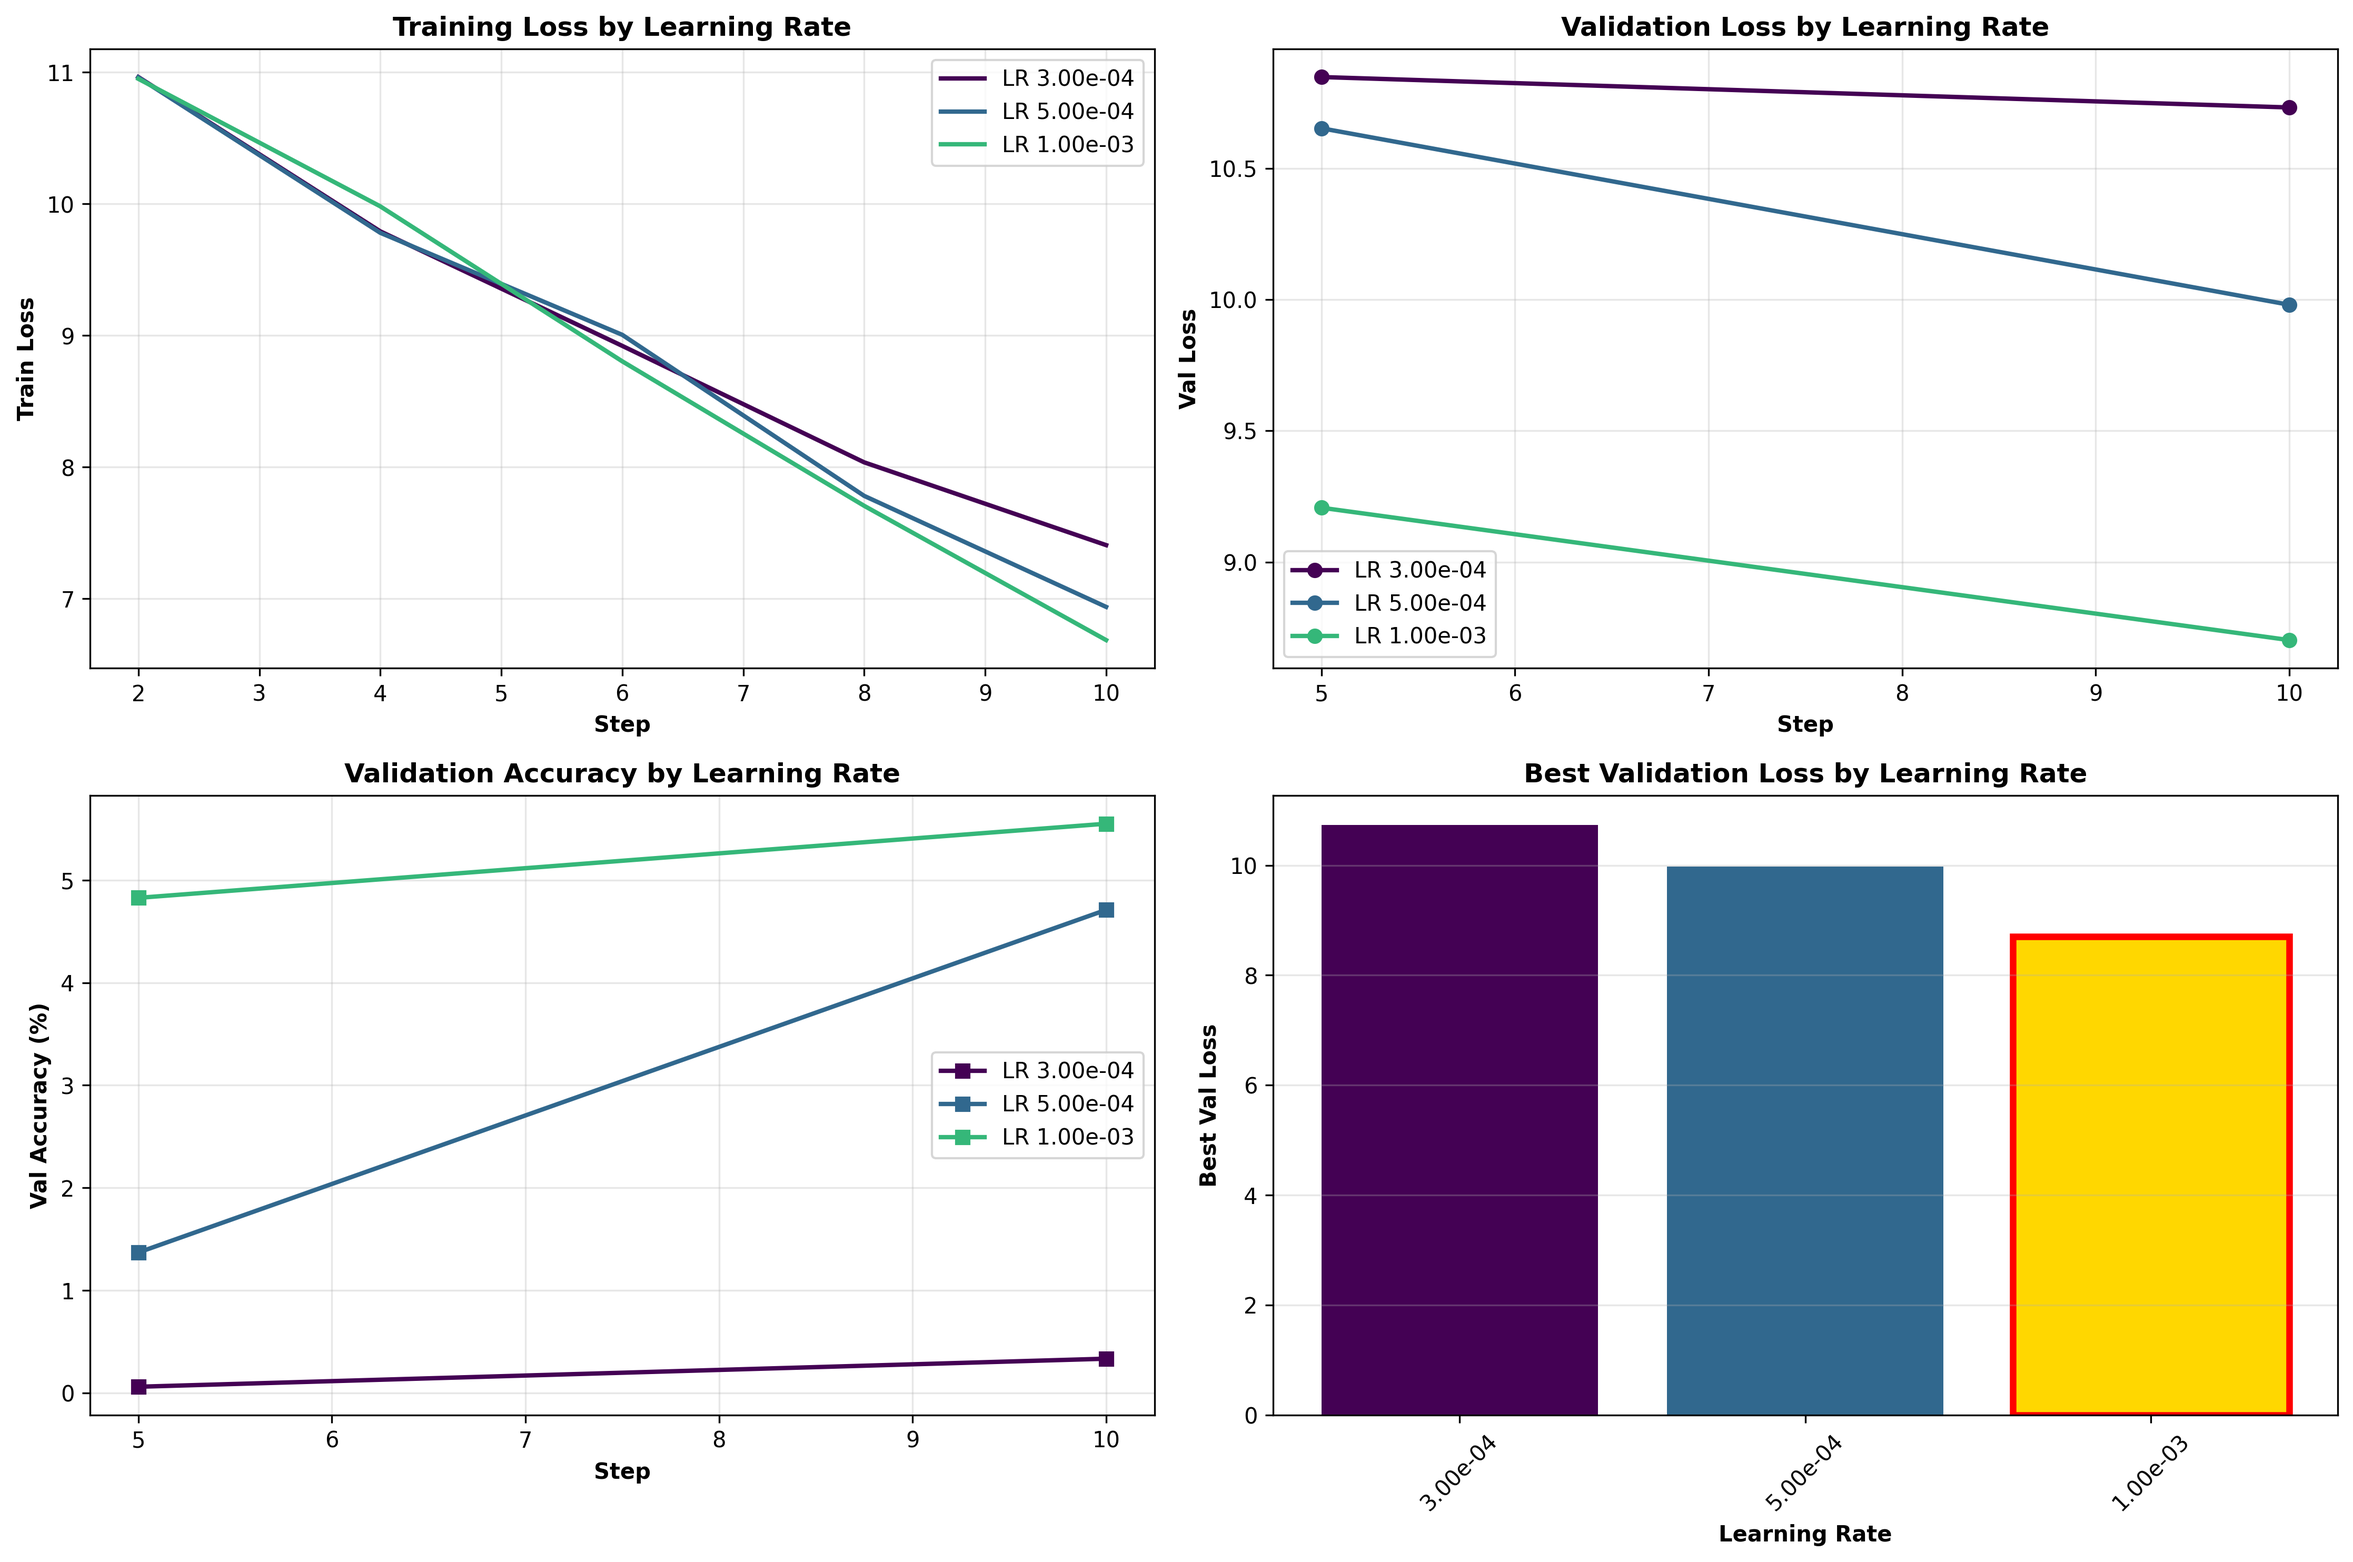
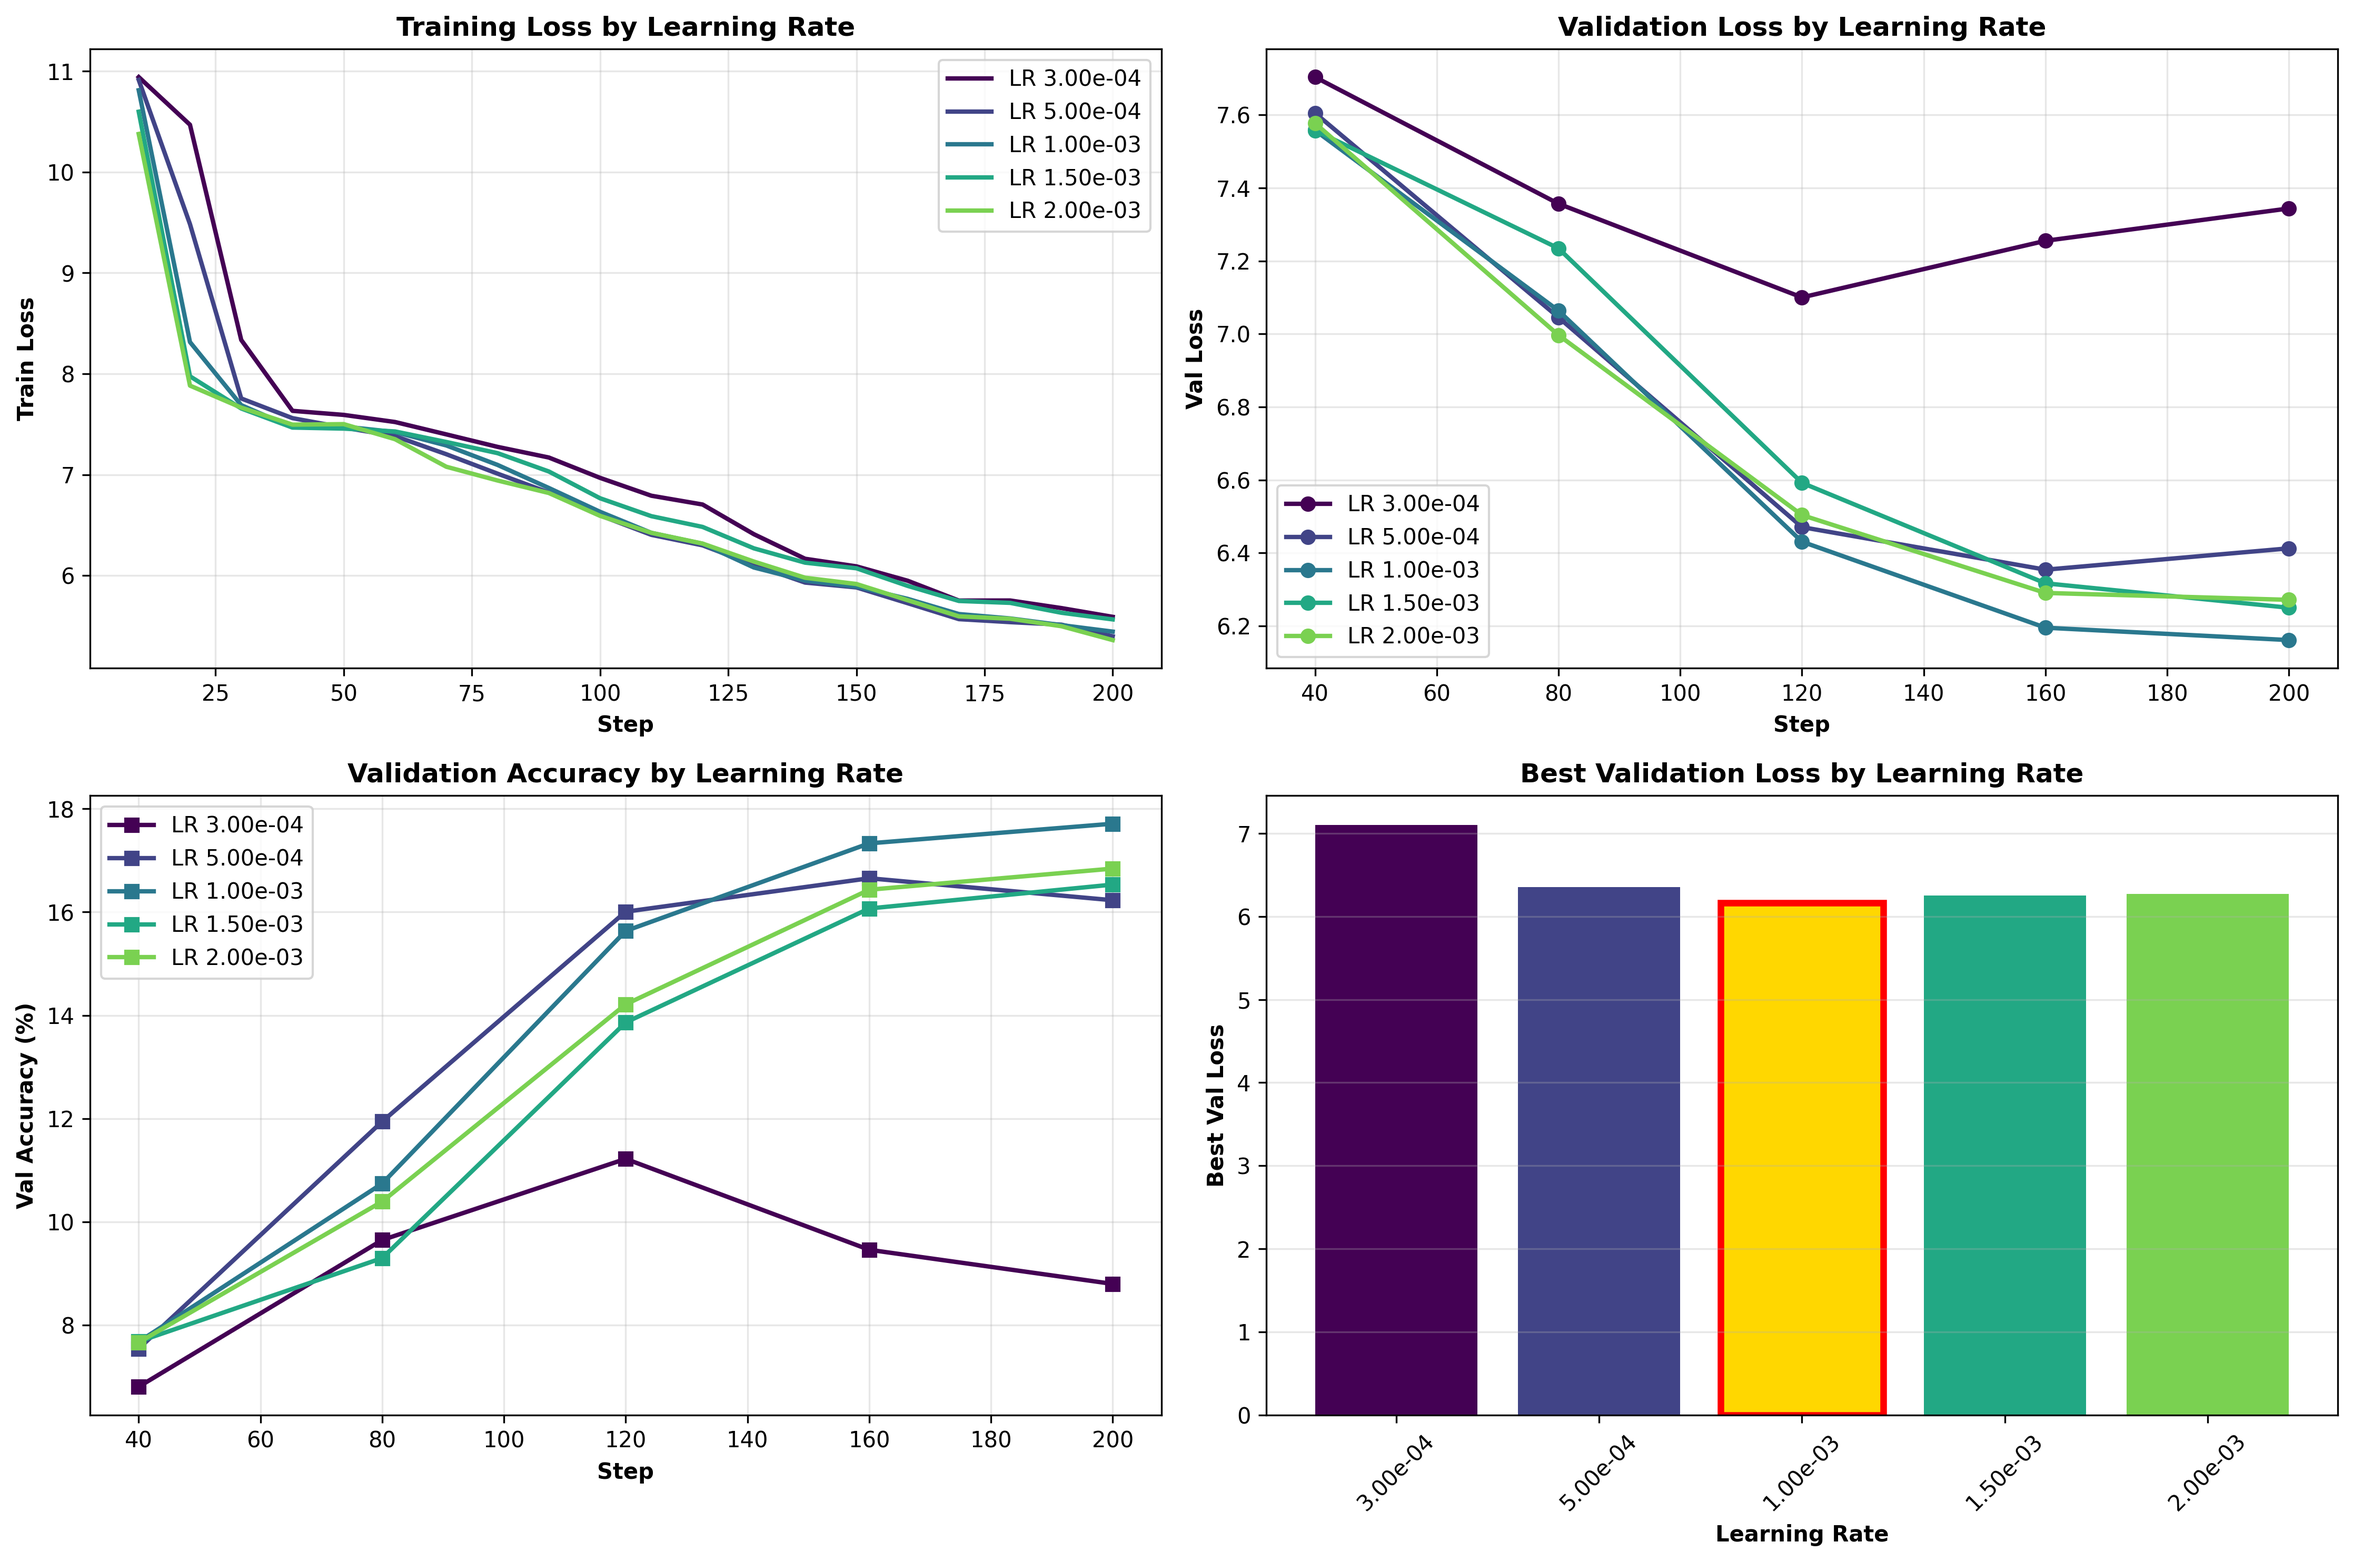
ablations 4090

diff --git a/experiments/exp6_gated_deltanet_training/config.py b/experiments/exp6_gated_deltanet_training/config.py
@@ -152,7 +152,7 @@ def get_rtx4090_optimized_config():
         # Training params - 1000 steps
         max_steps=1000,
         warmup_steps=100,  # 10% warmup
-        learning_rate=3e-4,  # Will be updated after LR ablation
+        learning_rate=1e-3,  # Best from 200-step ablation (val_loss=6.161)
         gradient_clip=1.0,
         
         # Data - NO REPETITION for 1000 steps

diff --git a/experiments/exp6_gated_deltanet_training/README.md b/experiments/exp6_gated_deltanet_training/README.md
@@ -1,191 +1,17 @@
-# Experiment 6: Gated DeltaNet Training with FLA
+# Experiment 6: Gated DeltaNet Training
 
-This experiment trains a language model using pure Gated DeltaNet layers with Flash Linear Attention (FLA) optimizations.
+## RTX 4090 LR Ablation (200 steps)
 
-## Overview
+| LR | Val Loss | Val Acc | Perplexity |
+|---|---|---|---|
+| 3e-4 | 7.100 | 11.2% | 1212 |
+| 5e-4 | 6.354 | 16.0% | 645 |
+| **1e-3** | **6.161** | **17.7%** | **474** |
+| 1.5e-3 | 6.250 | 16.5% | 518 |
+| 2e-3 | 6.271 | 16.8% | 529 |
 
-Gated DeltaNet is a linear attention mechanism that provides:
-- **Linear complexity**: O(n) instead of O(n²) for standard attention
-- **Efficient training**: Optimized with FLA kernels
-- **Competitive performance**: Achieves strong results on language modeling tasks
+**Best:** 1e-3
 
-
-
-## Installation
-
-Install experiment-specific dependencies:
-
-```bash
-cd experiments/exp6_gated_deltanet_training
-pip install -r requirements.txt
-```
-
-Verify FLA is installed:
-```bash
-python -c "import fla; print(fla.__version__)"
-```
-
-## Usage
-
-### Quick Start
-
-```bash
-# Start training
-python run_experiment.py --config rtx4090
-
-# Resume from checkpoint
-python run_experiment.py --resume checkpoints/best_model.pt
-
-# Resume and train longer
-python run_experiment.py --resume checkpoints/best_model.pt --extend-steps 5000
-```
-
-### Configuration Options
-
-Available presets via `--config`:
-- **small**: ~2M params, batch=2, 1000 steps (quick testing)
-- **medium**: ~15M params, batch=4, 2000 steps (default)
-- **large**: ~60M params, batch=8, 5000 steps (full training)
-- **xlarge**: ~200M params, batch=4, 10000 steps (very large)
-- **rtx4090**: ~100M params, batch=32, 2000 steps (GPU optimized)
-
-### Resume Training
-
-Training automatically saves:
-- `checkpoints/best_model.pt` - Best model by validation loss
-- `checkpoints/checkpoint_step_*.pt` - Periodic checkpoints (every 500 steps)
-- `checkpoints/final_model.pt` - Final model
-
-Resume from any checkpoint to continue training or extend to more steps.
-
-### Inference
-
-Generate text from a trained model:
-```bash
-python inference.py
-```
-
-### Custom Configuration
-
-Modify `config.py` or create custom configs:
-
-```python
-from experiments.exp6_gated_deltanet_training.config import ExperimentConfig
-
-config = ExperimentConfig(
-    hidden_size=384,
-    num_hidden_layers=10,
-    max_steps=3000,
-    batch_size=8,
-    learning_rate=3e-4,
-)
-```
-
-## Learning Rate Ablation Study (H100)
-
-We conducted a comprehensive learning rate ablation study on NVIDIA H100 (80GB) to find the optimal learning rate for batch_size=120:
-
-### Results Summary
-
-Tested 7 learning rates over 1000 steps each:
-
-| Rank | Learning Rate | Best Val Loss | Final Val Loss | Final Accuracy |
-|------|---------------|---------------|----------------|----------------|
-| 🥇 1 | **1.00e-03** | **6.671** | 8.924 | 14.77% |
-| 🥈 2 | 5.80e-04 | 6.822 | 8.760 | 14.29% |
-| 🥉 3 | 7.00e-04 | 6.835 | 8.788 | 14.52% |
-| 4 | 5.00e-04 | 6.952 | 8.780 | 13.33% |
-| 5 | 3.00e-04 | 7.150 | 8.811 | 10.59% |
-| 6 | 2.00e-04 | 7.146 | 8.557 | 8.71% |
-| 7 | 4.00e-04 | 7.166 | 8.934 | 11.60% |
-
-### Key Findings
-
-- ✅ **Best LR: 1.00e-03** - Achieved lowest validation loss (6.671) during training
-- 📊 Higher learning rates (7e-4 to 1e-3) significantly outperformed conservative rates
-- 🎯 Our sqrt-scaled estimate (5.8e-4) performed well but slightly conservative
-- ⚡ Training speed: ~2.6 steps/s on H100 at 90% memory utilization (74GB/81GB)
-- 🔥 **Recommendation**: Use `learning_rate=1e-3` for production training
-
-### Configuration
-
-The ablation used:
-- **Model**: 768d, 12 layers (100M params)
-- **Batch size**: 120 (optimized for H100)
-- **Sequence length**: 1024 tokens
-- **GPU**: NVIDIA H100 80GB HBM3
-- **Steps per experiment**: 1000
-
-See visualization: `lr_ablation/lr_ablation_comparison.png`
-
-### Production Training (10K Steps)
-
-Based on ablation results, we're running production training with:
-```bash
-python run_experiment.py --config h100
-```
-
-**Configuration:**
-- Learning Rate: 1e-3 (winner from ablation)
-- Batch Size: 120
-- Steps: 10,000 (warmup: 1,000)
-- Expected time: ~65 minutes on H100
-
-**Monitor progress:**
-```bash
-# Live monitor with GPU stats (auto-refresh every 5s)
-bash watch_training.sh
-
-# Or check log manually
-tail -f training_10k.log
-```
-
-**Checkpoints saved to:** `checkpoints/best_model.pt`
-
-See `TRAINING_10K_STATUS.md` for detailed monitoring guide.
-
-## Dataset Size Issue & Fix
-
-### Problem Discovered
-
-Initial training showed severe overfitting:
-- **Training loss**: 10.9 → 0.088 (excellent)
-- **Validation loss**: 8.17 → 11.39 (increasing!)
-- **Root cause**: Dataset too small (5M tokens) vs consumption (614M tokens)
-- **Result**: Model saw data 123 times, memorized instead of learning
-
-### Solution
-
-Increased dataset size to match token consumption:
-
-| Config | Steps | Tokens Consumed | Dataset Size | Epochs | Status |
-|--------|-------|-----------------|--------------|--------|--------|
-| Old | 5,000 | 614M | 5M | 123x | 🚨 Overfitting |
-| **New** | 5,000 | 614M | **1B** | 0.61x | ✅ Fixed |
-
-**Formula**: `batch_size × seq_len × steps = tokens_consumed`
-- H100 5K: `120 × 1024 × 5000 = 614.4M tokens`
-- H100 10K: `120 × 1024 × 10000 = 1.23B tokens`
-
-### Training Time Estimates
-
-At ~2.6 steps/s on H100:
-
-| Scale | Tokens | Time | Steps |
-|-------|--------|------|-------|
-| Current (5K) | 614M | 1 hour | 5,000 |
-| Extended (10K) | 1.23B | 2 hours | 10,000 |
-| Large | 10B | 16 hours | 81,380 |
-| GPT-3 scale | 1T | **68 days** | 8.1M |
-
-**Memory Impact**: 1B tokens = 4GB RAM, 2B tokens = 8GB RAM (easily fits on H100)
-
-## Model Details
-
-### Gated DeltaNet Parameters
-
-- `linear_num_value_heads`: Number of value heads (default: 4)
-- `linear_num_key_heads`: Number of key heads (default: 4)
-- `linear_key_head_dim`: Dimension per key head (default: 64)
-- `linear_value_head_dim`: Dimension per value head (default: 64)
-- `linear_conv_kernel_dim`: 1D convolution kernel size (default: 4)
+## Full Training Setup
+- 1000 steps, batch=32, seq_len=1024, 70M tokens (no repetition)
+- Run: `python run_experiment.py --config rtx4090`
